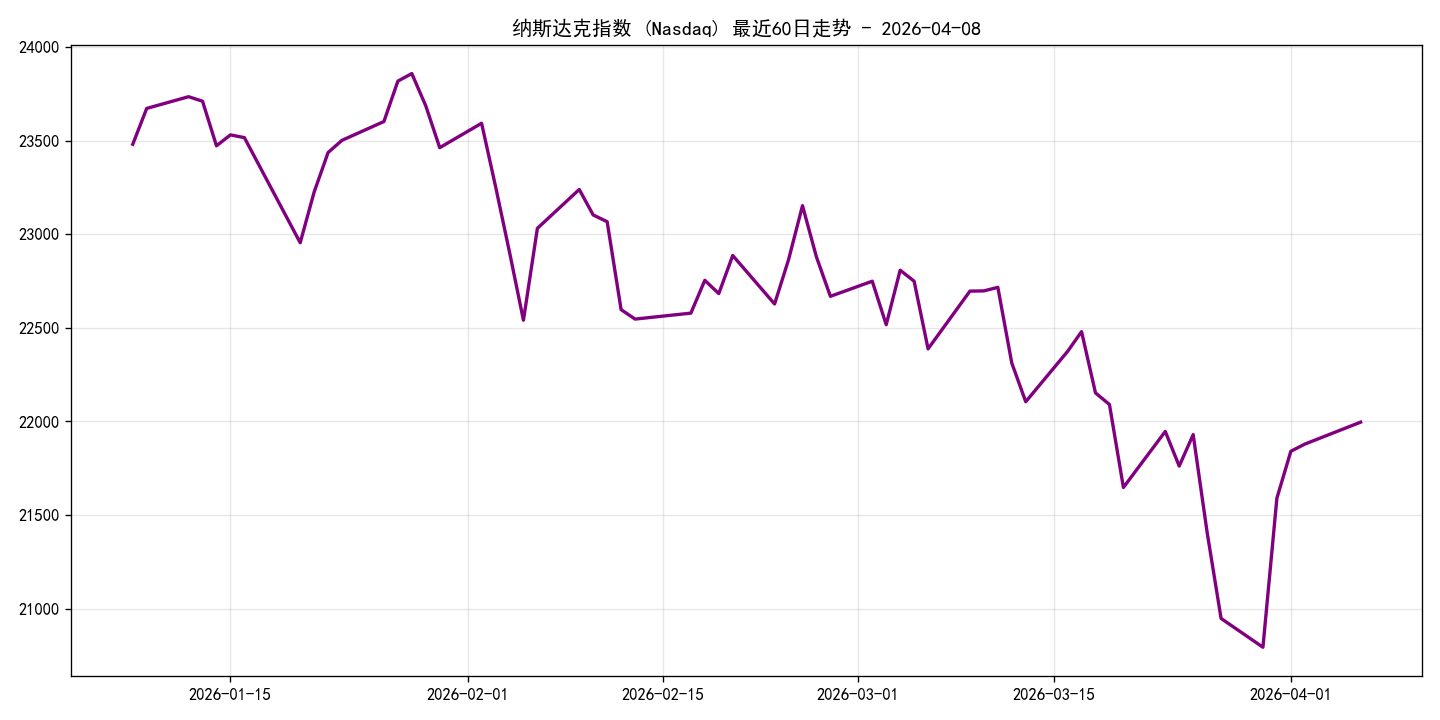
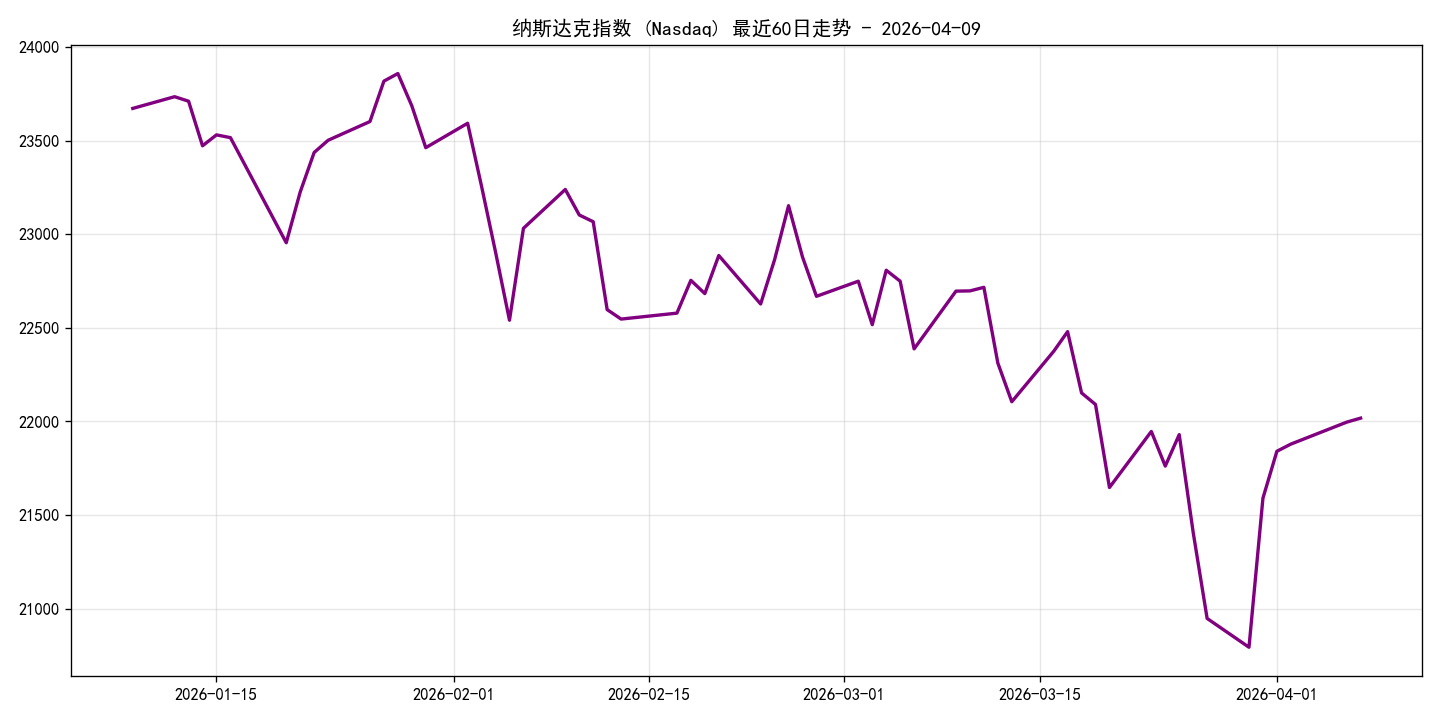
Auto: Daily US-share Recap Update 2026-04-08

diff --git a/usshare_recap.html b/usshare_recap.html
@@ -3,7 +3,7 @@
 <head>
     <meta charset="UTF-8">
     <meta name="viewport" content="width=device-width, initial-scale=1.0">
-    <title>美股收盘复盘 - 2026-04-08</title>
+    <title>美股收盘复盘 - 2026-04-09</title>
     <style>
         body { font-family: sans-serif; padding: 20px; line-height: 1.6; max-width: 800px; margin: 0 auto; background: #f9f9f9; }
         .card { background: white; padding: 20px; border-radius: 12px; shadow: 0 4px 10px rgba(0,0,0,0.1); }
@@ -15,10 +15,10 @@
 </head>
 <body>
     <div class="card">
-        <h1>美股收盘复盘 (2026-04-08)</h1>
+        <h1>美股收盘复盘 (2026-04-09)</h1>
         <div class="stat">
-            纳斯达克 (Nasdaq)：21996.34 
-            <span class="up">(+0.54%)</span>
+            纳斯达克 (Nasdaq)：22017.85 
+            <span class="up">(+0.10%)</span>
         </div>
         <p>美股上一交易日收盘呈 <strong>上涨</strong> 态势。</p>
         <img src="usshare_recap_trend.png" alt="Trend">
